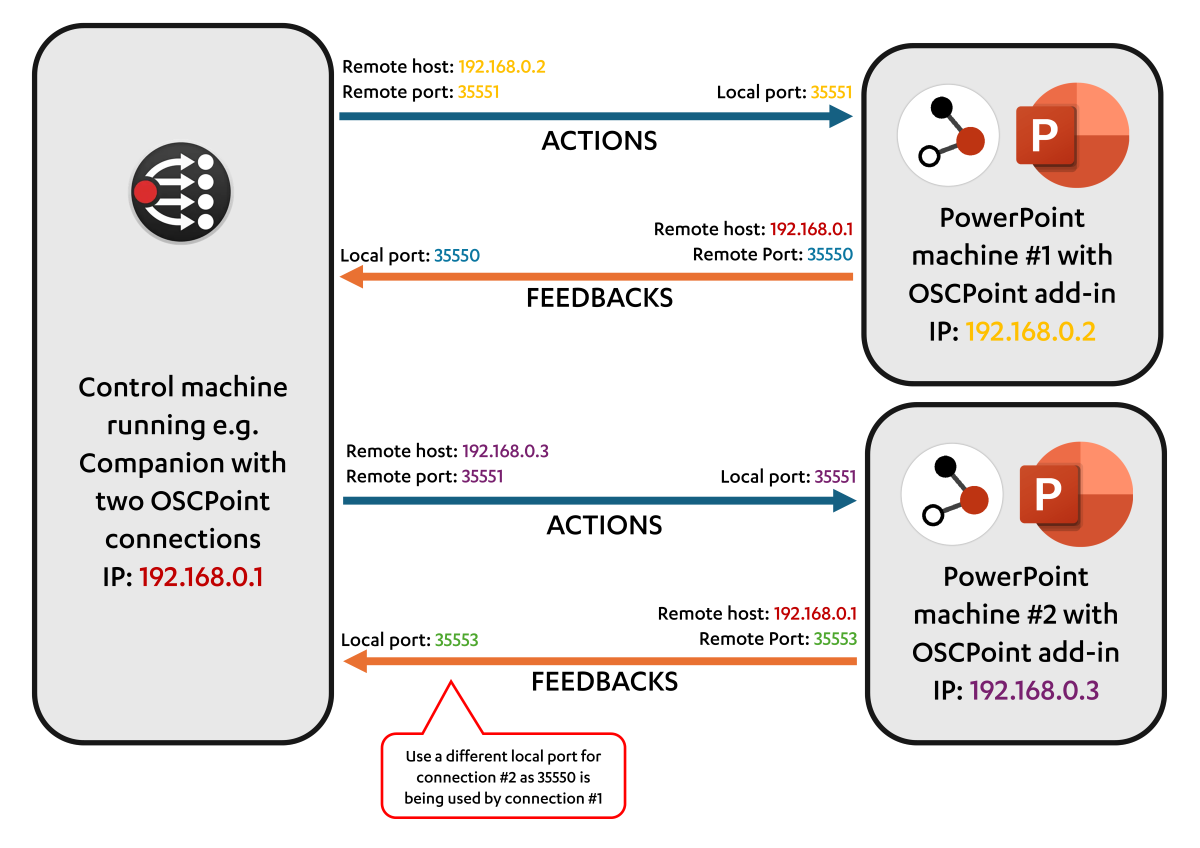
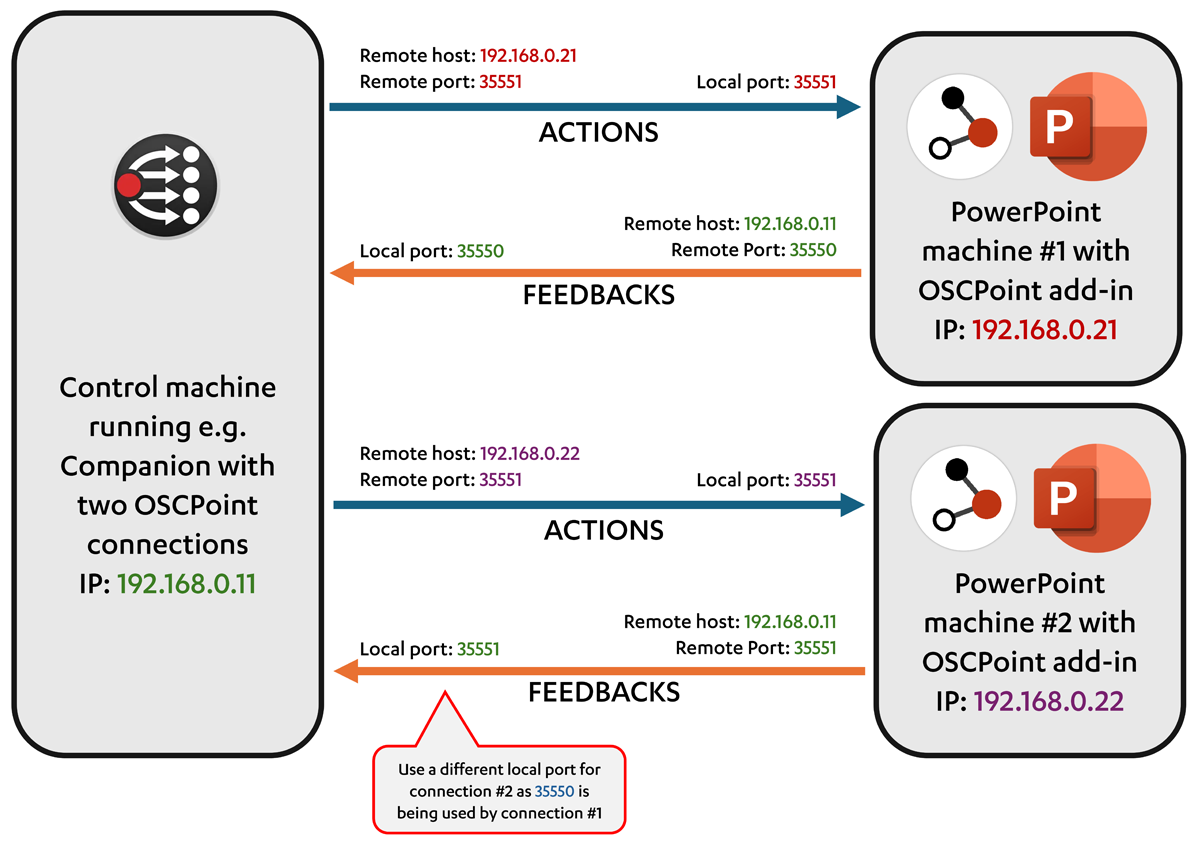
Add configuration notes for multiple OSCPoint connections and update connection examples

Changed region(s): [[0.0, 0.0, 1.0, 1.0], [0.0925, 0.1533, 0.2158, 0.3066]]

diff --git a/CONFIGURATION.md b/CONFIGURATION.md
@@ -25,6 +25,15 @@ Companion has two OSCPoint connections running. To get feedback from both machin
 
 ![One Companion machine, two PowerPoint machines](./assets/connection_examples/three_machines.png)
 
+> [!NOTE]
+> Using three or more machines? Just keep adding connections in Companion and make sure each machine is set to a different feedback port.
+
+## One combined Companion & PowerPoint machine, plus one extra PowerPoint machine
+
+In this configuration, one machine is running Companion, OSCPoint and PowerPoint, and another machine is running PowerPoint & OSCPoint. The machines are connected via a network.
+
+![One Companion machine, two PowerPoint machines](./assets/connection_examples/two_machines_b.png)
+
 ## Broadcasting feedback to multiple machines
 
 In this configuration, multiple machines on the same network are receiving feedback from OSCPoint, by sending OSC messages to the broadcast address - in this case `192.168.0.255`.
